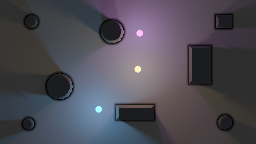
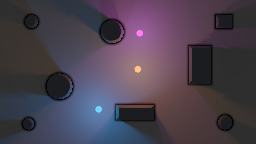
T880: E46 exposes its colours, speed, glow and shadow as reflected knobs
The payoff of the reflection capability on E46 (§V805): the shader's colours,
orbit speed, glow falloff, shadow softness and floor level were frozen WGSL
constants — the reason four rounds of look feedback couldn't converge. They are
now fields on the shader's own `struct Params`, so each is a live node control
(RGBA pickers for the three light colours, numbers for the rest), drag-tunable
without touching code.

Behaviour is preserved except one deliberate improvement: the light colours are
now proper `display`-space pickers, srgb-decoded to linear before the shader
(§V313), where before they were raw literals used as-is. That deepens the
colours — which is the right handling and pushes against the "too pastel" note.
Look baseline re-measured to match (range 0.89 → 0.61 is the deeper, more
saturated colour, not a regression); claims and liveness green.

§T889's remaining look feedback (no black in frame, pastel sources, additive
desaturation) is now what it should be — knobs to turn, not shader rounds — and
the next step, publishing them on a component's parameter page, makes them the
controls the owner asked to think in.

Claude-Session: https://claude.ai/code/session_01GzHWvJkJH5ynafwbVvfoVd

diff --git a/src/examples/shaders/lantern.wgsl.ts b/src/examples/shaders/lantern.wgsl.ts
@@ -26,7 +26,14 @@ import { SHARED_UNIFORMS_WGSL } from "../../runtime/backend/shared-uniforms.ts";
  */
 export const LANTERN_WGSL = `${SHARED_UNIFORMS_WGSL}
 struct Params {
-  amount: f32,
+  amount: f32,          // the breath — master light gain, driven by a slow LFO
+  lightColor1: vec4f,   // the three lanterns' colours — RGBA pickers, reflected by name
+  lightColor2: vec4f,
+  lightColor3: vec4f,
+  orbitSpeed: f32,      // how fast the lanterns sweep
+  glowFalloff: f32,     // distance falloff — higher is tighter, moodier
+  shadowSoftness: f32,  // the penumbra constant — higher is a harder edge
+  floorLevel: f32,      // how much the lit floor shows (contrast of the dark room)
 };
 
 @group(0) @binding(0) var inputSampler: sampler;
@@ -88,7 +95,7 @@ fn softShadow(origin: vec2f, dir: vec2f, maxT: f32) -> f32 {
     if (t >= maxT) { break; }
     let h = scene(origin + dir * t);
     if (h < 0.0006) { return 0.0; }
-    res = min(res, 11.0 * h / t);
+    res = min(res, params.shadowSoftness * h / t);
     t = t + clamp(h, 0.006, 0.06);
   }
   return clamp(res, 0.0, 1.0);
@@ -128,9 +135,9 @@ fn lanternPos(i: u32, t: f32) -> vec2f {
 }
 
 fn lanternColour(i: u32) -> vec3f {
-  if (i == 0u) { return vec3f(1.0, 0.62, 0.24); }
-  if (i == 1u) { return vec3f(0.24, 0.7, 1.0); }
-  return vec3f(0.95, 0.32, 0.78);
+  if (i == 0u) { return params.lightColor1.rgb; }
+  if (i == 1u) { return params.lightColor2.rgb; }
+  return params.lightColor3.rgb;
 }
 
 const OBSTACLE_ALBEDO = vec3f(0.56, 0.58, 0.68);
@@ -156,7 +163,7 @@ fn fs(@location(0) uv: vec2f) -> @location(0) vec4f {
   var light = vec3f(0.0);
   var cores = vec3f(0.0);
   for (var i = 0u; i < 3u; i = i + 1u) {
-    let lp = lanternPos(i, t);
+    let lp = lanternPos(i, t * params.orbitSpeed);
     let colour = lanternColour(i);
     let toLight = lp - p;
     let dist = length(toLight);
@@ -164,7 +171,7 @@ fn fs(@location(0) uv: vec2f) -> @location(0) vec4f {
 
     /* Distance falloff — light, not a blur — gated by the soft shadow the obstacles cast.
        The march starts a hair off the surface so a lit face does not shadow itself. */
-    let atten = gain / (1.0 + dist * dist * 12.0);
+    let atten = gain / (1.0 + dist * dist * params.glowFalloff);
     let sh = softShadow(p + n * 0.02, dir, max(dist - 0.06, 0.0));
     /* Floor takes the light flat; an obstacle takes it by its facing (the field's normal). */
     let facing = select(1.0, clamp(dot(n, dir), 0.0, 1.0) * 0.9 + 0.12, inside);
@@ -192,7 +199,7 @@ fn fs(@location(0) uv: vec2f) -> @location(0) vec4f {
        contact-darkening at obstacle edges seats them on the floor. Unlit floor falls to near
        black, so the beams read as light in a dark room rather than a wash. */
     let contact = smoothstep(0.0, 0.05, objD);
-    col = ground * 0.05 * contact + FLOOR_ALBEDO * light * contact + cores;
+    col = ground * 0.05 * contact + FLOOR_ALBEDO * light * contact * params.floorLevel + cores;
   }
 
   return vec4f(col, 1.0);

diff --git a/src/examples/documents/lantern.ts b/src/examples/documents/lantern.ts
@@ -59,7 +59,19 @@ export const lanternDocument = document(
         shape: "sine", frequency: 0.11, amplitude: 0.2, offset: 0.8, phase: 0,
       }, { label: "pulse1" }),
 
-      node("lantern", "customWgsl", [-420, 0], { source: LANTERN_WGSL }, {
+      node("lantern", "customWgsl", [-420, 0], {
+        source: LANTERN_WGSL,
+        // T880: the shader's own `struct Params` reflects into these controls — drag any of
+        // them to retune the scene without touching WGSL. The colours are RGBA pickers, the
+        // rest are numbers, named by the shader's fields.
+        lightColor1: [1, 0.62, 0.24, 1],
+        lightColor2: [0.24, 0.7, 1, 1],
+        lightColor3: [0.95, 0.32, 0.78, 1],
+        orbitSpeed: 1,
+        glowFalloff: 12,
+        shadowSoftness: 11,
+        floorLevel: 1,
+      }, {
         label: "lantern1",
         parameters: { amount: drivenSlot("pulse1", 0.8) },
       }),
